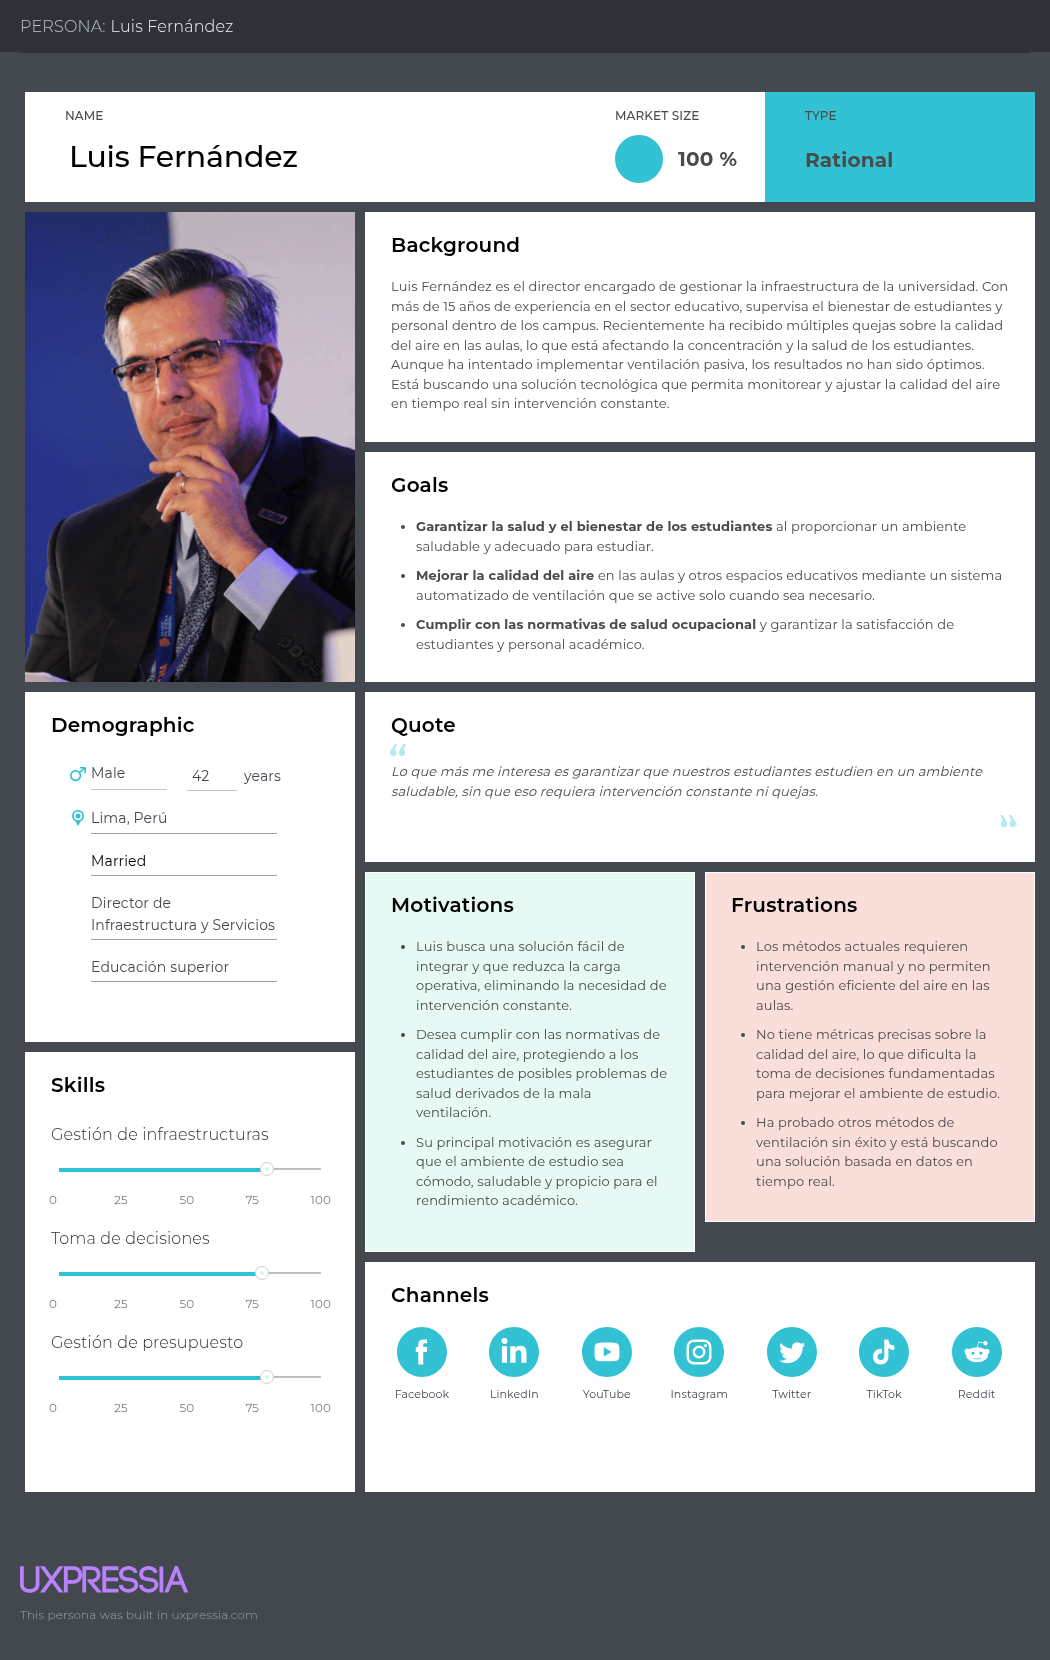
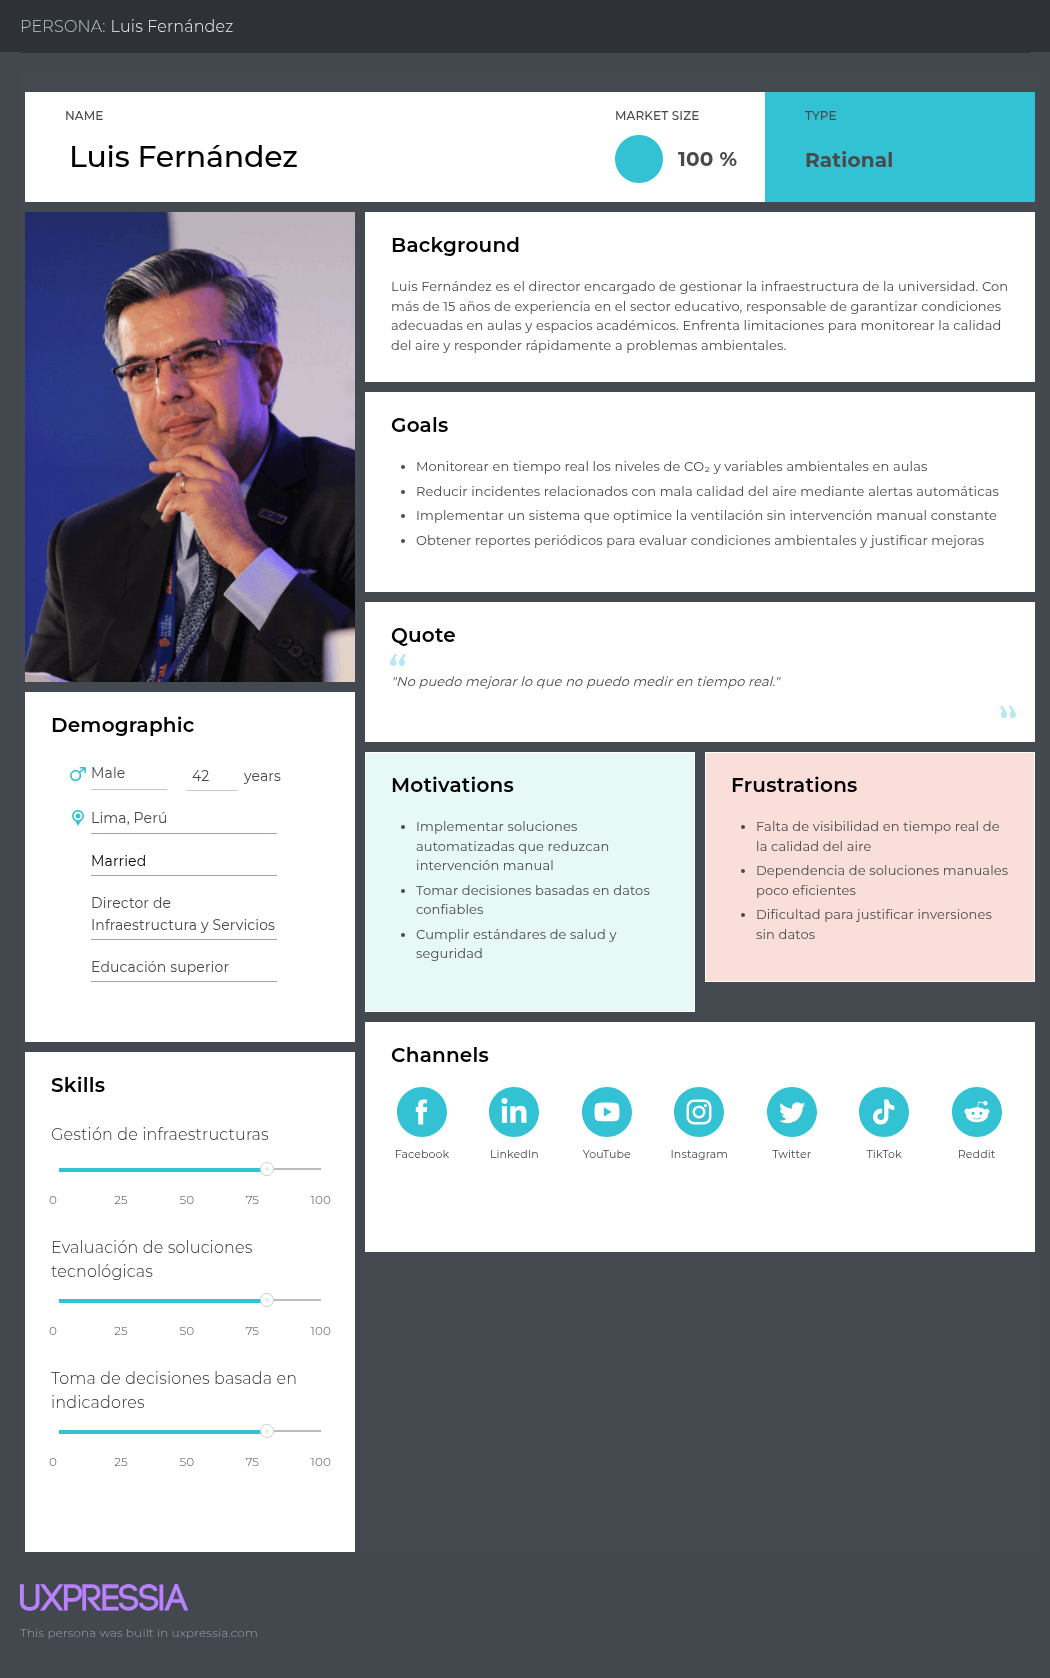
feat: add user personas

diff --git a/README.md b/README.md
@@ -987,18 +987,21 @@ En el entorno corporativo la situación es distinta: existe mayor conciencia de 
 Esto plantea que el valor no solo está en el monitoreo, sino en la validez técnica y la capacidad de convertir la información en argumentos de negocio (productividad, bienestar laboral, reducción de ausentismo). La barrera es doble: confianza en la tecnología y voluntad de inversión empresarial.
 
 ## 2.3. Needfindig
+
+
 ### 2.3.1. User Personas
 En esta sección, se incluyen las fichas de User Personas que representan arquetipos detallados de los segmentos objetivo definidos para nuestro sitio web. Estos arquetipos se han creado a partir de un análisis de las entrevistas que hemos realizado con usuarios reales y un estudio comparativo de la competenecia, con el objetivo de capturar las características, y comportamientos de nuestros usuarios.
 
 **Segmento 1: Instituciones Educativas**
 
-<img src="assets/Chapter2//UserPersona1.png">
+![User Persona - Segmento 1](assets/Chapter2/UserPersona1.png)
 
 **Segmento 2: Instituciones Corporativas**
 
-<img src="assets/Chapter2/UserPersona2.png">
+![User Persona - Segmento 2](assets/Chapter2/UserPersona2.png)
 
 ---
+
 
 ### 2.3.2. User Task Matrix
 
